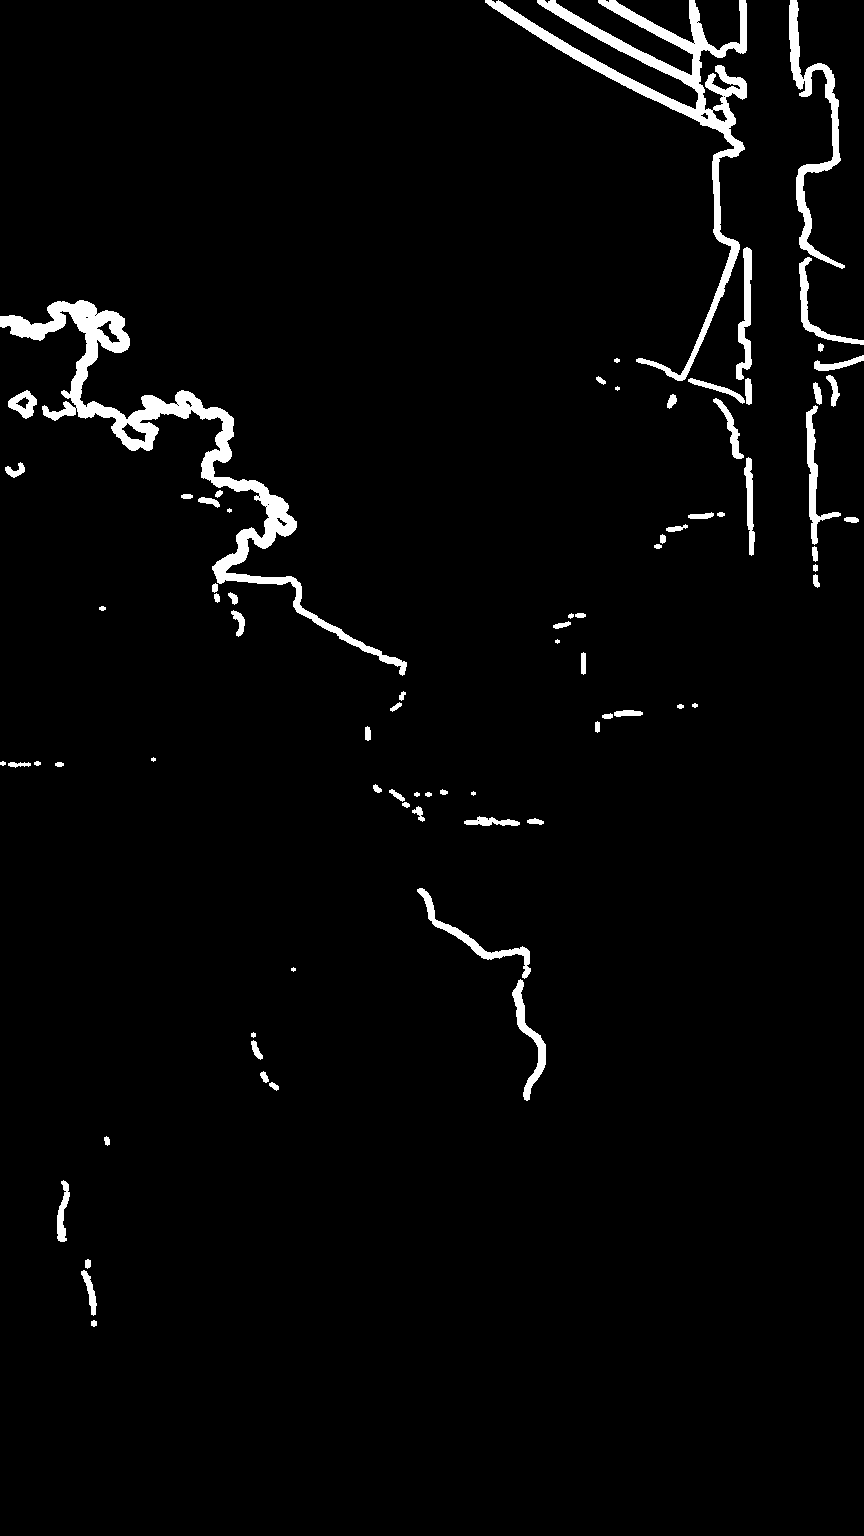
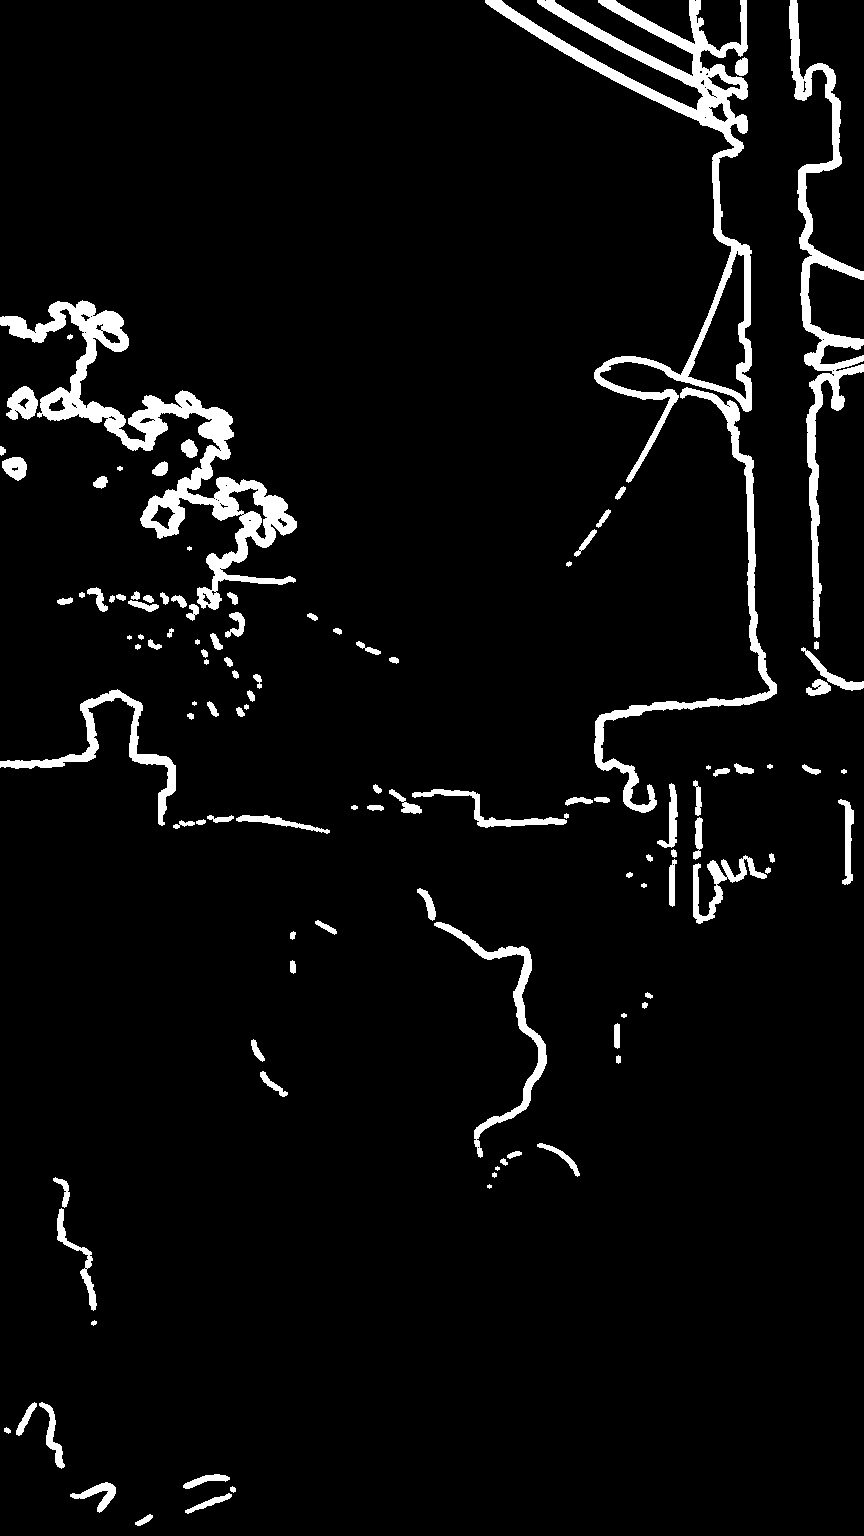
cherry2: upgrade depth to Large (plate + base.png) for real layer separation
The leaves reading as one layer and the scooter not resolving were the Base model
smoothing them into blobs. Switch cherry2 to Depth Anything Large for both the front
plate and the base.png back layer: scooter-region depth detail +76% (grad 3.9->6.85),
so the scooter resolves and slides rigidly and the foliage separates — while
cherry2's gentle depth override keeps the leaves from stretching. Back-layer depth
still comes straight from base.png (now Large), not a LaMa guess.

diff --git a/index.html b/index.html
@@ -11,7 +11,7 @@
     <meta name="apple-mobile-web-app-title" content="Cat Lock" />
     <meta name="apple-mobile-web-app-status-bar-style" content="black-translucent" />
     <link rel="manifest" href="./manifest.webmanifest" />
-    <link rel="stylesheet" href="./style.css?v=mesh-45" />
+    <link rel="stylesheet" href="./style.css?v=mesh-46" />
     <title>Cat Depth Lock</title>
     <script type="importmap">
       {
@@ -55,6 +55,6 @@
     </main>
 
     <script src="https://unpkg.com/lucide@0.468.0/dist/umd/lucide.min.js" defer></script>
-    <script type="module" src="./app.js?v=mesh-45"></script>
+    <script type="module" src="./app.js?v=mesh-46"></script>
   </body>
 </html>

diff --git a/app.js b/app.js
@@ -19,7 +19,7 @@ const sceneParam = new URLSearchParams(location.search).get("scene");
 const P3D = sceneParam ? `./assets/photo3d_${sceneParam}/` : "./assets/photo3d/";
 // asset cache-buster: bump on any rebuilt PNG so phones don't serve a stale image
 // (index.html's ?v= only refreshes the code, not these depth/colour PNGs).
-const AV = "?a=ch2c";
+const AV = "?a=ch2L";
 // core layers always present; protect.png (v2) / subject.png (v3 soft-LDI) are
 // loaded optionally and decide which front-layer path runs (see below).
 const ASSETS = {
